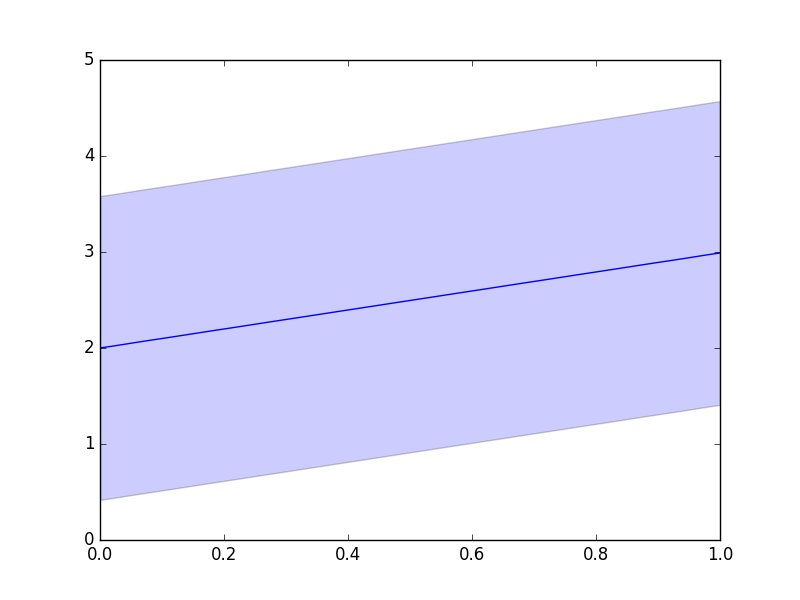
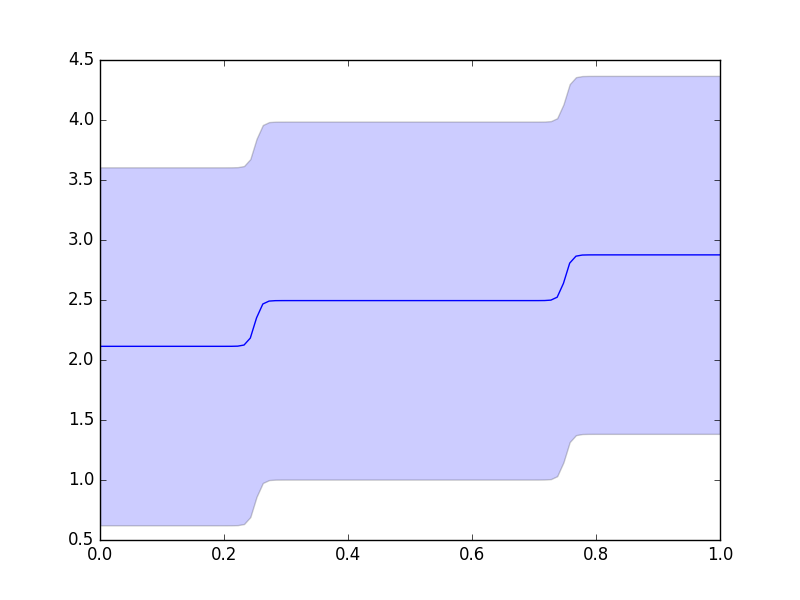
working promp with multiple contexts, added noise to prevent singular covariance matrix

diff --git a/promp_context/src/promp_context/promp_context.py b/promp_context/src/promp_context/promp_context.py
@@ -6,7 +6,7 @@ class ProMPContext(object):
     ## Contextualized ProMP as performed in Ewerton et al. 
     ## promplib code used 
 
-    def __init__(self, output_names, context_names, num_basis=11, sigma=0.05, num_samples=100):
+    def __init__(self, output_name, context_names, num_basis=11, sigma=0.05, num_samples=100):
         
         # self.variables = variable_names
         # self.outputs = []
@@ -26,12 +26,13 @@ class ProMPContext(object):
         #     else:
         #         self.outputs.append(j)
         #         self.outputs_ix.append(i)
-
-        self.outputs = output_names
+        self.outputs = [output_name]
         self.contexts = context_names
         # self.num_variables = len(self.variables)
-        self.num_outputs = len(output_names)
-        self.num_contexts = len(context_names)
+        self.num_outputs = len(self.outputs)
+        self.num_contexts = len(self.contexts)
+        
+        print(self.outputs)
 
         self.x = np.linspace(0, 1, num_samples)
         self.num_samples = len(self.x)
@@ -93,13 +94,15 @@ class ProMPContext(object):
             # calculate weights (size NxM, N=num_basis, M=num_demonstrations)
             self.W = np.dot(np.linalg.inv(np.dot(self.Phi, self.Phi.T)), np.dot(self.Phi, self.Y.T)).T  # weights for each trajectory
             self.C = np.vstack((self.C, context))        
-
+            print("C = " + str(self.C))
+            
         if self.nr_traj > 1:
             # we can only calculate covariance if we have 2 or more demonstrations
-            print("C = " + str(self.C))
-            print("W = " + str(self.W))
+            # print("C = " + str(self.C))
+            # print("W = " + str(self.W))
 
             self.sigma_total = np.cov(self.W, self.C, rowvar=0)
+            print("sigma_total = " + str(self.sigma_total))
 
             self.sigma_ww = self.sigma_total[:self.num_basis, :self.num_basis]
             self.sigma_cw = self.sigma_total[self.num_basis:, :self.num_basis]
@@ -110,16 +113,15 @@ class ProMPContext(object):
             self.mean_w = np.mean(self.W, 0)                                                            
             self.mean_c = np.mean(self.C, 0)
 
-            # print("sigma_cc = " + str(self.sigma_cc))
-            # print("sigma_ww = " + str(self.sigma_ww))
-            # print("sigma_wc = " + str(self.sigma_wc))
-            # print("sigma_cw = " + str(self.sigma_cw))
-            # print("mean_w = " + str(self.mean_w))
-            # print("mean_c = " + str(self.mean_c))
+            print("sigma_cc = " + str(self.sigma_cc))
+            print("sigma_ww = " + str(self.sigma_ww))
+            print("sigma_wc = " + str(self.sigma_wc))
+            print("sigma_cw = " + str(self.sigma_cw))
+            print("mean_w = " + str(self.mean_w))
+            print("mean_c = " + str(self.mean_c))
             
             self.mean_total = np.append(self.mean_w, self.mean_c)
 
-            # print("sigma_total = " + str(self.sigma_total))
 
         else:
             self.mean_w = self.W[0]
@@ -129,11 +131,14 @@ class ProMPContext(object):
 
     def generate_trajectory(self, context):
 
+        # noise preventing the matrix Sigma_cc to be singular
+        noise = np.eye(self.sigma_cc.shape[0]) * self.sigma
+
         # mu_w|c = mu_w + Sigma_wc * Sigma_cc^-1 * (c - mu_c)
-        mu_w_given_c = self.mean_w + np.dot(np.dot(self.sigma_wc, np.linalg.inv(self.sigma_cc)), context - self.mean_c)
+        mu_w_given_c = self.mean_w + np.dot(np.dot(self.sigma_wc, np.linalg.inv(self.sigma_cc + noise)), context - self.mean_c)
         
         # Sigma_w|c = Sigma_ww - Sigma_wc * Sigma^-1 * Sigma_cw
-        sigma_w_given_c = self.sigma_ww - np.dot(np.dot(self.sigma_wc, np.linalg.inv(self.sigma_cc)), self.sigma_cw)
+        sigma_w_given_c = self.sigma_ww - np.dot(np.dot(self.sigma_wc, np.linalg.inv(self.sigma_cc + noise)), self.sigma_cw)
         p_w_given_c = np.random.multivariate_normal(mu_w_given_c, sigma_w_given_c)
 
         # mu_tau|c = Phi * mu_w|c

diff --git a/promp_context/model_test.py b/promp_context/model_test.py
@@ -16,21 +16,28 @@ sigma_noise=0.03
 x = np.arange(0,1,0.01)
 
 output_names = ['output1']
-context_names = ['context1']
+context_names = ['context1', 'context2', 'context3']
+# context_names = ['context1']
 
 num_samples = len(x)
-pmp = ProMPContext(output_names, context_names, num_samples=num_samples,num_basis=20)
+promps = [ProMPContext(output_name, context_names, num_samples=num_samples,num_basis=20) for output_name in output_names]
 
 
-samples = []
+samples1 = []
+samples2 = []
 
 plt.figure()
 # create samples
 for i in range(num_traj):
     # y = list(map(lambda x: [x + i, x + i, x + i], x))
-    y = list(map(lambda x: [x + i], x))
+    # y = list(map(lambda x: [x + i], x))
+    y1 = list(map(lambda x: [x + i], x))
+    y2 = list(map(lambda x: [x + 2*i], x))
+    y3 = list(map(lambda x: [x + 3*i], x))
 
-    context = i
+    context1 = [i, i, i]
+    # context2 = 3*i
+
     # context = [i, i, i]
     # context = [ [ x[0], x[1], x[2] ] for x in context ]
     # print(context)
@@ -44,8 +51,13 @@ for i in range(num_traj):
     # plt.plot(x, y[i], c=color, label='input ' + str(i+1))
     # plt.plot(x, context[i], '-.', c=color, label='context ' + str(i+1))
 
-    # plt.plot(x, y, c=color, label='output ' + str(i+1))
-    # plt.plot(x, context, '-.', c=color, label='input ' + str(i+1))
+    plt.plot(x, y1, c=color, label='output ' + str(1))
+    # plt.plot(x, y2, c=color, label='output ' + str(2))
+
+    for i in range(len(context1)):
+
+        plt.plot(x, np.ones(len(x)) * context1[i], '-.', c=color, label='input ' + str(i))
+    # plt.plot(x, np.ones(len(x)) * context1, '-.', c=color, label='input ' + str(i+1))
 
 
     plt.title("Demonstrations")
@@ -53,17 +65,25 @@ for i in range(num_traj):
 
     # print(context)
     # sample = list(map(lambda x: [x, i, i, i], y))
-    sample = (y, context)
-    samples.append(sample)
+    sample1 = (y1, context1)
+    # sample2 = (y2, context2)
+
+    samples1.append(sample1)
+    # samples2.append(sample2)
 
 plt.legend()
 plt.grid()
 
+plt.savefig('model.png')
+
 # add samples to promp model
-for sample in samples:
+for sample in samples1:
     
     # pmp.add_demonstration(np.asarray(sample))
-    pmp.add_demonstration(sample)
+    promps[0].add_demonstration(sample)
+
+# for sample in samples2:
+#     promps[1].add_demonstration(sample)
 
 # goal = np.zeros(len(joint_names))
 
@@ -75,21 +95,28 @@ for sample in samples:
 # start = [0.0, 1.0]
 # pmp.set_start(start)
 
-context = 1.0
-pred = pmp.generate_trajectory(context)
-
-print("prediction = " + str(pred))
-print("prediction = " + str(pred.shape))
+context = [1.0, 1.0, 1.0]
+# context = 1.0
 
 plt.figure()
-plt.plot(x, [y for y in pred], color='blue')    
-plt.plot(x, np.ones(pred.shape) * context, '-.',  color='orange')    
+# for promp in promps:
+pred = promps[0].generate_trajectory(context)
+plt.plot(x, [y for y in pred], color='blue', label='prediction')    
+plt.plot(x, np.ones(pred.shape) * context[0], '-',  color='orange', label='context1')   
+plt.plot(x, np.ones(pred.shape) * context[1], '-.',  color='black', label='context2')   
+plt.plot(x, np.ones(pred.shape) * context[2], '--',  color='green', label='context3')   
+
+# plt.figure()
+# plt.plot(x, [y for y in pred], color='blue')    
+# plt.plot(x, np.ones(pred.shape) * context, '-.',  color='orange')    
 plt.title("Prediction")
+plt.grid()
+plt.legend()
 plt.savefig('pred.png')
 
 
-pmp.plot_mean_variance()
-plt.savefig('mean_variance.png')
+# pmp.plot_mean_variance()
+# plt.savefig('mean_variance.png')
 
 # plt.figure()
 # pmp.plot(x, output_randomess=-1)
